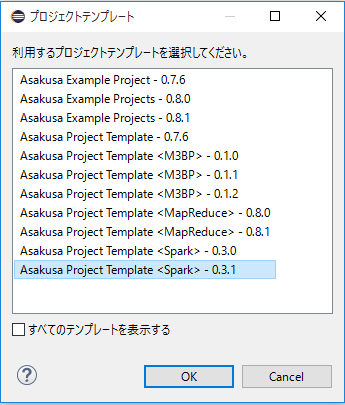
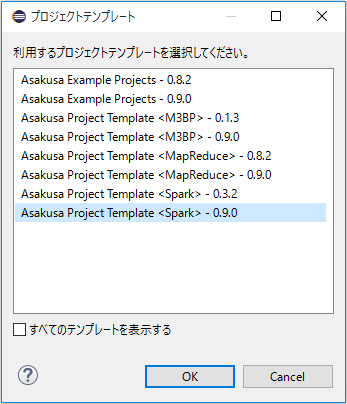
Revise for Asakusa Framework 0.9.0

diff --git a/docs/ja/source/conf.py b/docs/ja/source/conf.py
@@ -39,15 +39,13 @@ extensions = [
 [extensions]
 
 extlinks = {
-    'asakusafw': ('http://docs.asakusafw.com/0.8.1/release/ja/html/%s',  None),
-    'asakusa-on-spark': ('http://docs.asakusafw.com/asakusa-on-spark/0.3.1/release/ja/html/%s', None),
-    'asakusa-on-m3bp': ('http://docs.asakusafw.com/asakusa-on-m3bp/0.1.2/release/ja/html/%s', None),
+    'asakusafw': ('http://docs.asakusafw.com/0.9.0/release/ja/html/%s',  None),
     'jinrikisha': ('http://docs.asakusafw.com/jinrikisha/ja/html/%s', None),
 }
 
 javadoclinks = {
-    'javadoc': ('http://docs.asakusafw.com/0.8.1/release/api/%s.html', ""),
-    'gradledoc': ('http://docs.asakusafw.com/0.8.1/release/gradle-plugins/%s.html', "")
+    'javadoc': ('http://docs.asakusafw.com/0.9.0/release/api/%s.html', ""),
+    'gradledoc': ('http://docs.asakusafw.com/0.9.0/release/gradle-plugins/%s.html', "")
 }
 
 # Add any paths that contain templates here, relative to this directory.

diff --git a/docs/ja/source/eclipse-shafu.rst b/docs/ja/source/eclipse-shafu.rst
@@ -96,7 +96,7 @@ Shafuの設定
 
 1. Eclipse設定画面から :guilabel:`Jinrikisha  (人力車)` を選択します。
 
-2. :guilabel:`基本` タブの :guilabel:`環境` - :guilabel:`Gradleのバージョン` を ``2.14.1`` と入力し、画面右下の :guilabel:`Apply` ボタンを押下します。
+2. :guilabel:`基本` タブの :guilabel:`環境` - :guilabel:`Gradleのバージョン` を ``3.1`` と入力し、画面右下の :guilabel:`Apply` ボタンを押下します。
 
 ..  figure:: images/change-shafu-gradle.png
 

diff --git a/docs/ja/source/development-environment.rst b/docs/ja/source/development-environment.rst
@@ -20,7 +20,7 @@
       - Windows, MacOSX, Linux
       -
     * - `JDK <http://www.oracle.com/technetwork/java/javase/downloads/index.html>`_
-      - JDK 7 または JDK 8
+      - JDK 8
       - JREは利用不可 [#]_
     * - `Eclipse <http://www.eclipse.org/downloads/>`_
       - バージョン 4.4.2 以上
